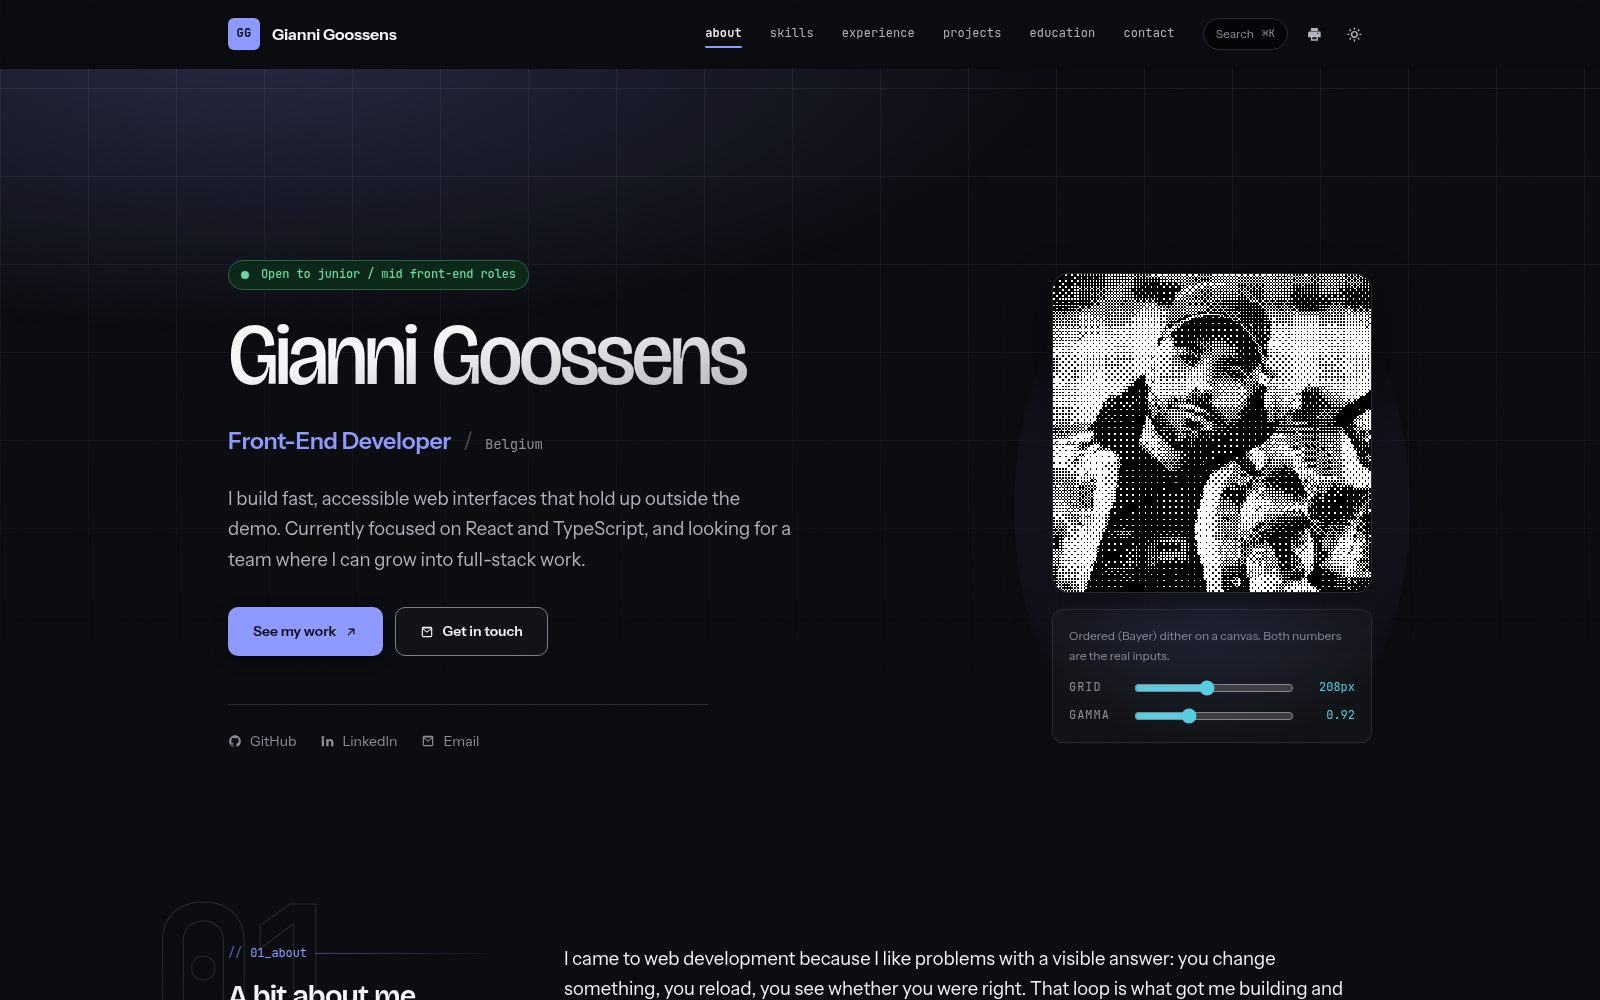
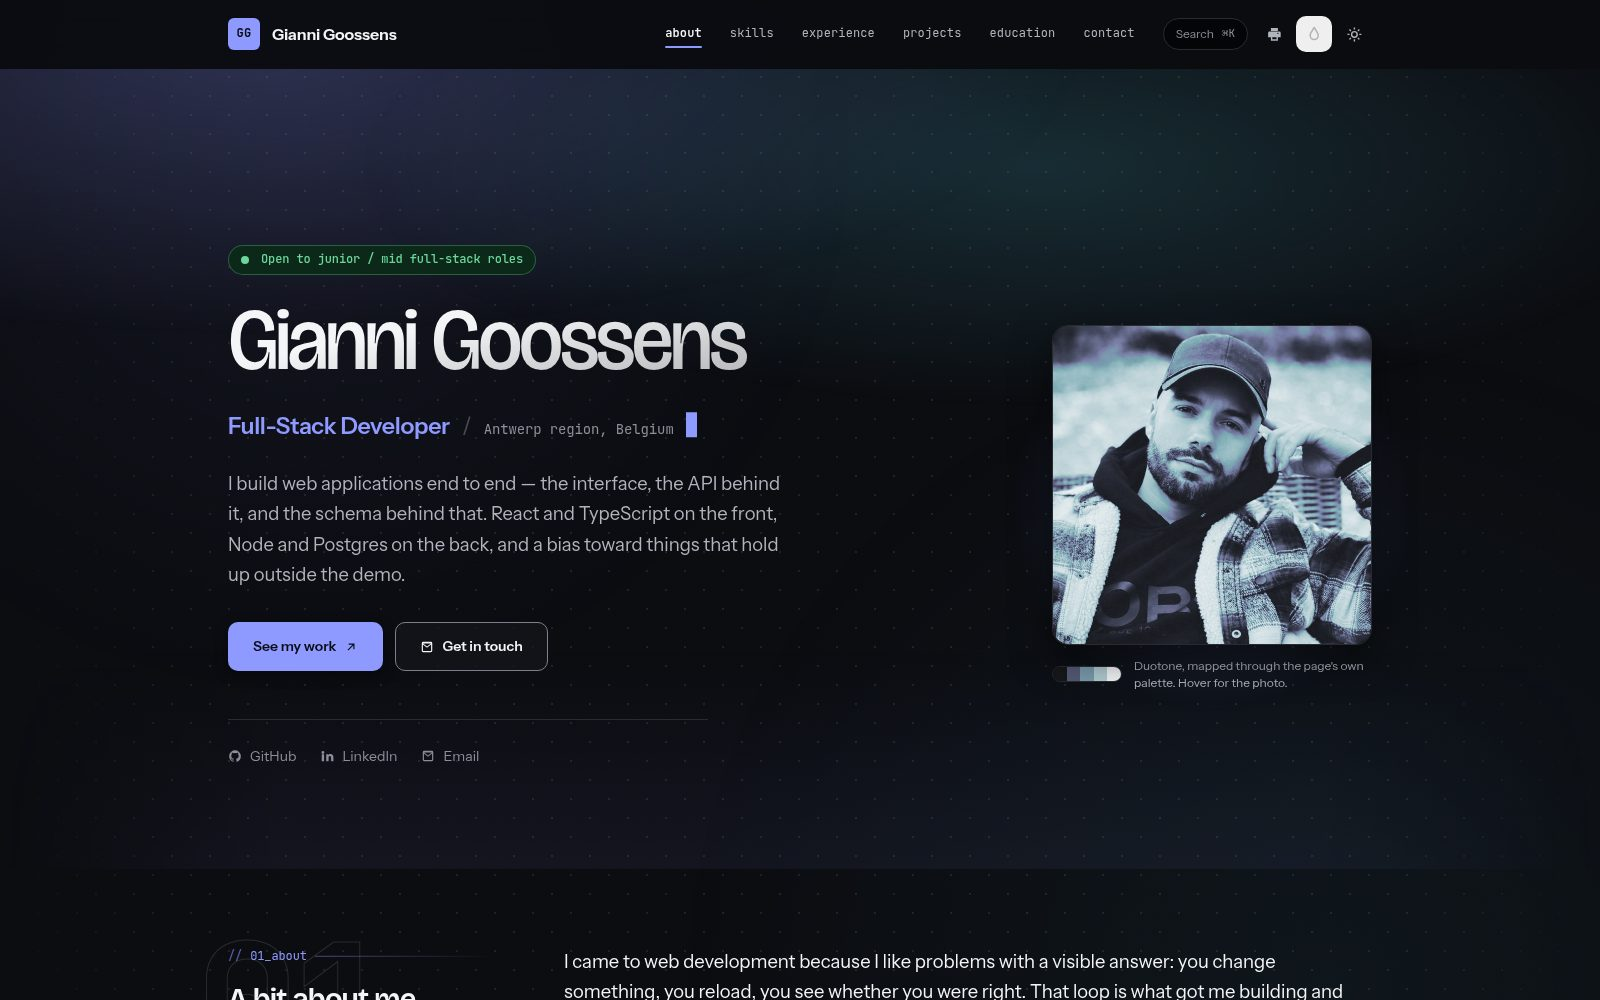
Drop the placeholder projects
"Project One" through "Project Three" are gone. A card reading Project One
costs more credibility than an empty slot saves, and they were not inert:
the skills cross-reference counts the stack arrays, so every count on the
page was quoting a number partly made of placeholders. React showed 3. It
shows 1, which is true.

What is left is one real entry, and the section reads fine with it — the
featured card spans the full width, and the two-up grid simply has nothing
to pair. The tags no project uses are now non-interactive, which is the
behaviour that was already there for the case where a skill had no backing.

The card's own screenshot was stale: it still showed Front-End Developer,
the dithered portrait and the old square grid. Regenerated from a local
preview via SHOT_BASE, which is what that variable is for — the deployed
site is a commit behind at the moment the shot is taken.

The comment above the array now explains how to add one rather than saying
the entries below it are templates, and the README no longer promises
templates that are not there.

diff --git a/src/content/resume.ts b/src/content/resume.ts
@@ -242,9 +242,16 @@ export const experience: Job[] = [
 
 export const projects: Project[] = [
   /*
-   * The only entry here that is real. Everything below it is a template.
-   * Written in the first person like the rest of the site: read it, make it
-   * sound like you, and cut anything you would not say in an interview.
+   * One real entry, and nothing else. The template projects that used to sit
+   * below it are gone: a card reading "Project One" costs more credibility
+   * than an empty slot saves, and the skills cross-reference was counting
+   * them, so every tag on the page was quoting a number made of placeholders.
+   *
+   * To add one, copy this shape. `problem` / `approach` / `outcome` and the
+   * `metrics` row are optional and drive the detail view; the third of those
+   * is the one most people skip and the one that reads as experience rather
+   * than enthusiasm. Give it an `image` filename and a real `demoUrl`, then
+   * run `npm run shots` to capture the screenshot.
    */
   {
     name: 'This site',
@@ -286,45 +293,6 @@ export const projects: Project[] = [
     demoUrl: 'https://annoximeme.github.io/Resume/',
     repoUrl: 'https://github.com/Annoximeme/Resume',
     featured: true,
-  },
-  {
-    name: 'Project One',
-    tagline: 'The one-line version of what it does.',
-    year: 'Year',
-    description:
-      'What problem it solves and the interesting part of how you solved it. ' +
-      'Name the hard bit: the caching, the offline sync, the drag-and-drop, ' +
-      'because that is what a reviewer is scanning for.',
-    problem: 'What was actually hard about this? Not what it does: what fought back.',
-    approach: 'What you did about it, and which trade-off you accepted.',
-    outcome:
-      'What came out the other end, and what you would do differently now. ' +
-      'Almost nobody writes that last part, which is exactly why it is worth writing.',
-    metrics: [
-      { label: 'Users', value: '—' },
-      { label: 'Load time', value: '—' },
-    ],
-    stack: ['React', 'TypeScript', 'Node.js', 'PostgreSQL'],
-    demoUrl: 'https://example.com',
-    repoUrl: 'https://github.com/Annoximeme/project-one',
-  },
-  {
-    name: 'Project Two',
-    tagline: 'Short, concrete, no buzzwords.',
-    description:
-      'Two or three sentences. What it does, what you learned building it, and ' +
-      'anything measurable: users, load time, size of the dataset it handles.',
-    stack: ['React', 'Vite', 'CSS Modules'],
-    repoUrl: 'https://github.com/Annoximeme/project-two',
-  },
-  {
-    name: 'Project Three',
-    tagline: 'Even a small tool is worth listing if it is finished.',
-    description:
-      'Finished and deployed beats ambitious and abandoned. A polished small ' +
-      'project reads better than a half-built large one.',
-    stack: ['TypeScript', 'Web APIs'],
-    demoUrl: 'https://example.com',
   },
 ]
 

diff --git a/README.md b/README.md
@@ -56,9 +56,13 @@ are committed, so a deploy never depends on somebody else's site being up when
 CI runs, and a project without one degrades to a text-only card. Placeholder
 hosts like `example.com` are skipped rather than photographed.
 
-Only one entry in there is real: this site. The rest are templates, and no
-amount of design compensates for "Project One". Replacing them is worth more
-than everything else in this file.
+There is one entry in there: this site. The template projects that used to
+follow it have been removed — a card reading "Project One" costs more
+credibility than an empty slot saves, and the skills cross-reference counted
+them, so every tag on the page was quoting a number made of placeholders.
+
+Adding real ones is worth more than everything else in this file. Copy the
+shape of the entry that's there.
 
 Delete an entry and it disappears. Empty an array and the whole section goes
 with it — heading, nav link, palette entry and all — because
